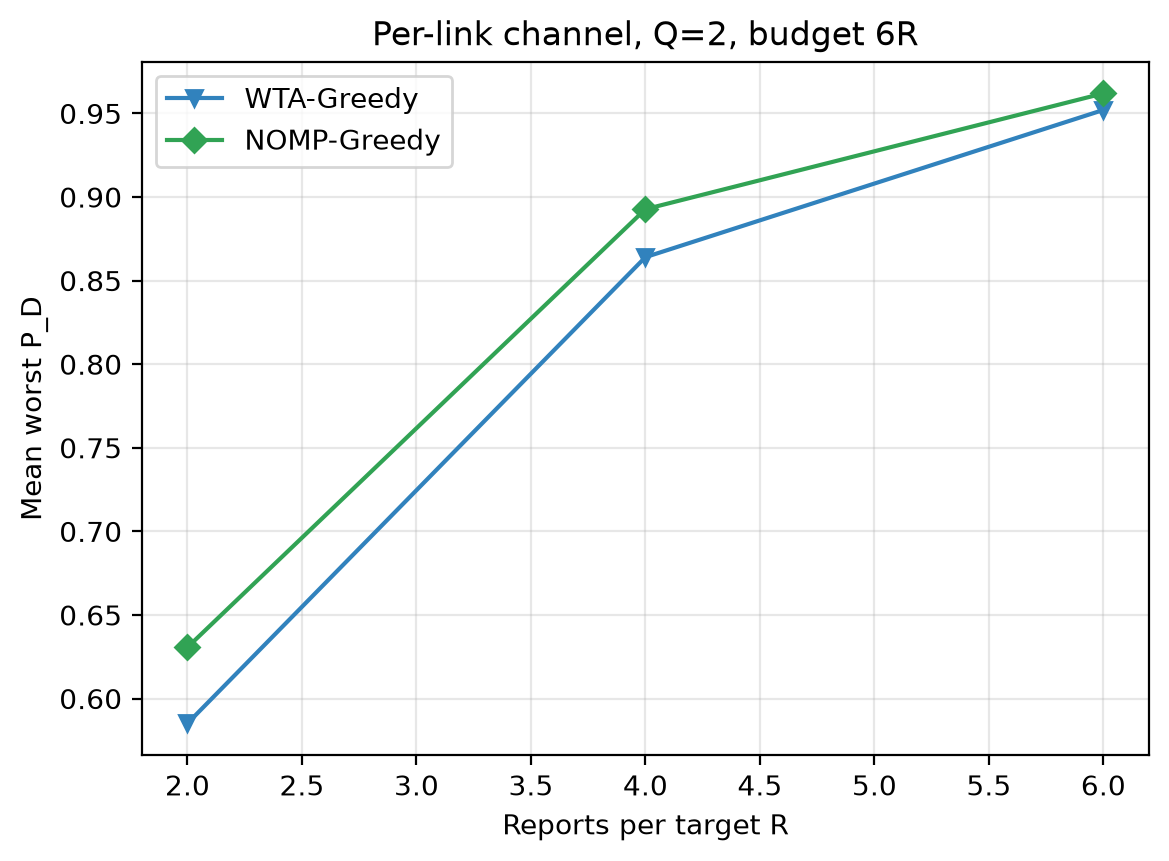
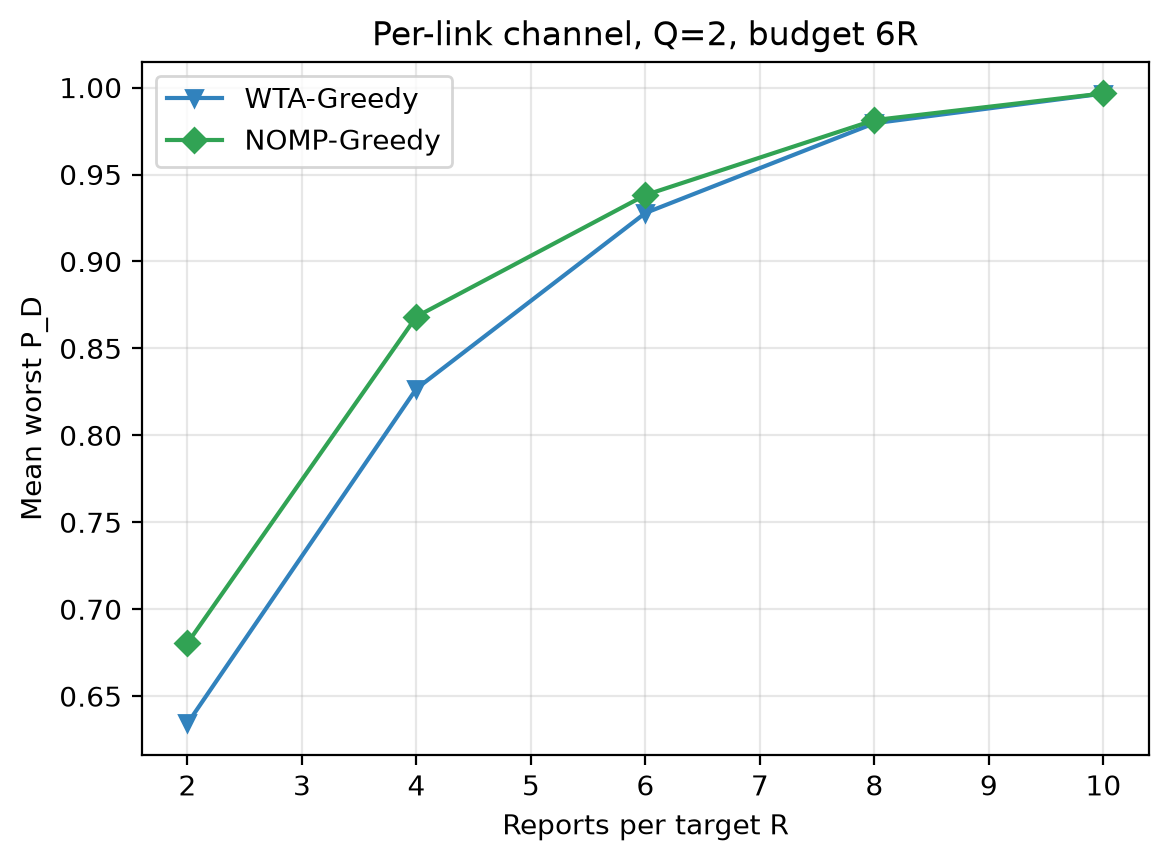
Add proxy-ranked candidate evaluation for large report counts

diff --git a/uav_otfs_isac/nomp_refinement.py b/uav_otfs_isac/nomp_refinement.py
@@ -30,6 +30,34 @@ def qos_scores(values, floors, weights=None):
     return weights * (values - floors) / np.maximum(floors, 1e-12)
 
 
+def deflection_proxy(
+    scenario,
+    powers,
+    bits,
+    flip_probability: float = 0.0,
+    success_probability: float = 1.0,
+):
+    """Cheap per-target deflection proxy for ranking refinement candidates."""
+    values = []
+    for q, target in enumerate(scenario):
+        _, deltas, flips, successes = _parse_target(
+            target, flip_probability, success_probability
+        )
+        total = 0.0
+        for r in range(deltas.size):
+            if bits[q][r] > 0:
+                total += float(powers[q][r]) * float(
+                    power_gain_coefficient(
+                        float(deltas[r]),
+                        int(bits[q][r]),
+                        float(flips[r]),
+                        float(successes[r]),
+                    )
+                )
+        values.append(total)
+    return values
+
+
 def leximin_improves(
     old_values,
     new_values,
@@ -85,6 +113,9 @@ def initial_min_cover(
     flip_probability: float = 0.0,
     success_probability: float = 1.0,
     grid: int = 16,
+    max_exact_reports: int = 8,
+    samples: int = 2048,
+    rng_seed: int = 0,
 ):
     """Activate one best report per target when the budget allows it."""
     reports = _report_count(scenario[0])
@@ -103,6 +134,9 @@ def initial_min_cover(
             grid,
             flip_probability,
             success_probability,
+            max_exact_reports,
+            samples,
+            rng_seed,
         )
         best_value = baseline
         best_winner = None
@@ -118,6 +152,9 @@ def initial_min_cover(
                 grid,
                 flip_probability,
                 success_probability,
+                max_exact_reports,
+                samples,
+                rng_seed,
             )
             if candidate > best_value:
                 best_value = candidate
@@ -137,6 +174,9 @@ def target_scores(
     grid: int = 16,
     flip_probability: float = 0.0,
     success_probability: float = 1.0,
+    max_exact_reports: int = 8,
+    samples: int = 2048,
+    rng_seed: int = 0,
 ):
     """Per-target P_D under the current allocation."""
     return [
@@ -147,6 +187,9 @@ def target_scores(
             grid,
             flip_probability,
             success_probability,
+            max_exact_reports,
+            samples,
+            rng_seed,
         ))
         for q, target in enumerate(scenario)
     ]
@@ -159,6 +202,9 @@ def _target_pd(
     grid,
     flip_probability,
     success_probability,
+    max_exact_reports=8,
+    samples=2048,
+    rng_seed=0,
 ):
     owner_delta, deltas, flips, successes = _parse_target(
         target, flip_probability, success_probability
@@ -173,6 +219,9 @@ def _target_pd(
         flips,
         successes,
         grid,
+        max_exact_reports=max_exact_reports,
+        samples=samples,
+        rng=np.random.default_rng(rng_seed),
     )
 
 
@@ -187,6 +236,9 @@ def _winner_index(
     flip_probability: float = 0.0,
     success_probability: float = 1.0,
     grid: int = 16,
+    max_exact_reports: int = 8,
+    samples: int = 2048,
+    rng_seed: int = 0,
 ):
     active = _active_reports(bits)
     if not active:
@@ -202,6 +254,9 @@ def _winner_index(
             grid,
             flip_probability,
             success_probability,
+            max_exact_reports,
+            samples,
+            rng_seed,
         )
         best = None
         for r in active:
@@ -215,6 +270,9 @@ def _winner_index(
                 grid,
                 flip_probability,
                 success_probability,
+                max_exact_reports,
+                samples,
+                rng_seed,
             ) - base
             if best is None or value > best[0]:
                 best = (float(value), r)
@@ -259,6 +317,9 @@ def _iter_candidates(
     flip_probability: float = 0.0,
     success_probability: float = 1.0,
     grid: int = 16,
+    max_exact_reports: int = 8,
+    samples: int = 2048,
+    rng_seed: int = 0,
 ):
     """Yield feasible single-exchange power/bit/atom moves."""
     q_count = len(scenario)
@@ -273,6 +334,9 @@ def _iter_candidates(
             flip_probability,
             success_probability,
             grid,
+            max_exact_reports,
+            samples,
+            rng_seed,
         )
         for s in range(reports):
             for d in range(reports):
@@ -449,6 +513,10 @@ def maxmin_refine(
     success_probability: float = 1.0,
     floors=None,
     weights=None,
+    max_exact_reports: int = 8,
+    samples: int = 2048,
+    rng_seed: int = 0,
+    candidate_budget: int = 32,
 ):
     """NOMP-style discrete refinement with a hard iteration cap."""
     rounds_used = 0
@@ -460,6 +528,9 @@ def maxmin_refine(
             grid,
             flip_probability,
             success_probability,
+            max_exact_reports,
+            samples,
+            rng_seed,
         )
         old_values = (
             np.sort(qos_scores(old_raw, floors, weights))
@@ -467,7 +538,7 @@ def maxmin_refine(
             else np.sort(old_raw)
         )
         best = None
-        for candidate in _iter_candidates(
+        candidates = list(_iter_candidates(
             scenario,
             powers,
             bits,
@@ -476,7 +547,24 @@ def maxmin_refine(
             flip_probability=flip_probability,
             success_probability=success_probability,
             grid=grid,
-        ):
+            max_exact_reports=max_exact_reports,
+            samples=samples,
+            rng_seed=rng_seed,
+        ))
+        if not candidates:
+            break
+
+        def proxy_key(candidate):
+            return tuple(np.sort(deflection_proxy(
+                scenario,
+                candidate[0],
+                candidate[1],
+                flip_probability,
+                success_probability,
+            )))
+
+        candidates.sort(key=proxy_key, reverse=True)
+        for candidate in candidates[:candidate_budget]:
             new_raw = target_scores(
                 scenario,
                 candidate[0],
@@ -484,6 +572,9 @@ def maxmin_refine(
                 grid,
                 flip_probability,
                 success_probability,
+                max_exact_reports,
+                samples,
+                rng_seed,
             )
             new_values = (
                 np.sort(qos_scores(new_raw, floors, weights))
@@ -512,6 +603,9 @@ def wta_greedy_joint_multi(
     success_probability: float = 1.0,
     floors=None,
     weights=None,
+    max_exact_reports: int = 8,
+    samples: int = 2048,
+    rng_seed: int = 0,
 ):
     """Online WTA greedy allocation with optional per-target minimum cover."""
     if max_power is None:
@@ -525,6 +619,9 @@ def wta_greedy_joint_multi(
             flip_probability=flip_probability,
             success_probability=success_probability,
             grid=grid,
+            max_exact_reports=max_exact_reports,
+            samples=samples,
+            rng_seed=rng_seed,
         )
     else:
         powers = [np.zeros(reports, dtype=int) for _ in scenario]
@@ -540,6 +637,9 @@ def wta_greedy_joint_multi(
             grid,
             flip_probability,
             success_probability,
+            max_exact_reports,
+            samples,
+            rng_seed,
         )
         if floors is not None:
             return float(np.mean(qos_scores(raw, floors, weights)))
@@ -581,6 +681,9 @@ def wta_greedy_joint_multi(
                     flip_probability,
                     success_probability,
                     grid,
+                    max_exact_reports,
+                    samples,
+                    rng_seed,
                 )
                 if powers[q][winner] < max_power and used + 1 <= budget:
                     old_p = powers[q].copy()
@@ -616,6 +719,9 @@ def wta_greedy_joint_multi(
             grid,
             flip_probability,
             success_probability,
+            max_exact_reports,
+            samples,
+            rng_seed,
         ))),
         "used": int(sum(
             int(powers[q].sum()) + int(bits[q].sum())
@@ -637,6 +743,10 @@ def nomp_wta_greedy_joint_multi(
     success_probability: float = 1.0,
     floors=None,
     weights=None,
+    max_exact_reports: int = 8,
+    samples: int = 2048,
+    rng_seed: int = 0,
+    candidate_budget: int = 32,
 ):
     """WTA greedy with minimum cover, followed by NOMP-style refinement."""
     if max_power is None:
@@ -652,6 +762,9 @@ def nomp_wta_greedy_joint_multi(
         success_probability=success_probability,
         floors=floors,
         weights=weights,
+        max_exact_reports=max_exact_reports,
+        samples=samples,
+        rng_seed=rng_seed,
     )
     powers, bits, refine_rounds = maxmin_refine(
         scenario,
@@ -665,6 +778,10 @@ def nomp_wta_greedy_joint_multi(
         success_probability=success_probability,
         floors=floors,
         weights=weights,
+        max_exact_reports=max_exact_reports,
+        samples=samples,
+        rng_seed=rng_seed,
+        candidate_budget=candidate_budget,
     )
     raw = target_scores(
         scenario,
@@ -673,6 +790,9 @@ def nomp_wta_greedy_joint_multi(
         grid,
         flip_probability,
         success_probability,
+        max_exact_reports,
+        samples,
+        rng_seed,
     )
     return {
         "powers": powers,

diff --git a/scripts/run_nomp_report_scaling_gate.py b/scripts/run_nomp_report_scaling_gate.py
@@ -36,9 +36,11 @@ def main() -> None:
     parser = argparse.ArgumentParser()
     parser.add_argument("--output", default="results/nomp_report_scaling_gate.json")
     parser.add_argument("--figure", default="paper_figures/nomp_report_scaling.png")
-    parser.add_argument("--reports", type=int, nargs="+", default=[2, 4, 6])
+    parser.add_argument("--reports", type=int, nargs="+", default=[2, 4, 6, 8, 10])
     parser.add_argument("--seeds", type=int, default=10)
     parser.add_argument("--budget-multiplier", type=int, default=3)
+    parser.add_argument("--samples", type=int, default=512)
+    parser.add_argument("--candidate-budget", type=int, default=32)
     args = parser.parse_args()
 
     rows = []
@@ -56,7 +58,14 @@ def main() -> None:
                 scenario, budget, min_cover=False
             )["worst_pd"]))
             start = time.perf_counter()
-            result = nomp_wta_greedy_joint_multi(scenario, budget)
+            result = nomp_wta_greedy_joint_multi(
+                scenario,
+                budget,
+                max_exact_reports=8,
+                samples=args.samples,
+                rng_seed=1,
+                candidate_budget=args.candidate_budget,
+            )
             nomp_seconds.append(time.perf_counter() - start)
             nomp_worsts.append(float(result["worst_pd"]))
             nomp_rounds.append(int(result["refine_rounds"]))

diff --git a/RUN_MATRIX.md b/RUN_MATRIX.md
@@ -40,7 +40,7 @@ error.
 | `joint-power-scaling` | Worst P_D versus Q=2/4/6/8 with per-target budget 4Q | `& "E:\anaconda\conda\python.exe" scripts\run_joint_power_scaling.py --targets 2 4 6 8 --train-seeds 20 --test-seeds 20 --episodes 200 --output results\joint_power_scaling.json --figure paper_figures\joint_power_scaling.png` | `results/joint_power_scaling.json`, `paper_figures/joint_power_scaling.png` |
 | `joint-power-comm-mismatch` | Per-link sensing/communication mismatch with robust expected-P_D oracle | `& "E:\anaconda\conda\python.exe" scripts\run_joint_power_comm_mismatch_gate.py --seeds 20 --budgets 8 10 12 --output results\joint_power_comm_mismatch_gate.json` | `results/joint_power_comm_mismatch_gate.json` |
 | `joint-power-summary` | Consolidated tables and overall comparison figure | `& "E:\anaconda\conda\python.exe" scripts\summarize_joint_power_results.py` | `paper_figures/joint_power_overall_comparison.png`, console tables |
-| `nomp-report-scaling` | NOMP vs WTA versus report count under per-link channels | `& "E:\anaconda\conda\python.exe" scripts\run_nomp_report_scaling_gate.py --reports 2 4 6 --seeds 10 --output results\nomp_report_scaling_gate.json --figure paper_figures\nomp_report_scaling.png` | `results/nomp_report_scaling_gate.json`, `paper_figures/nomp_report_scaling.png` |
+| `nomp-report-scaling` | NOMP vs WTA versus report count under per-link channels | `& "E:\anaconda\conda\python.exe" scripts\run_nomp_report_scaling_gate.py --reports 2 4 6 8 10 --seeds 5 --samples 512 --candidate-budget 32 --output results\nomp_report_scaling_gate.json --figure paper_figures\nomp_report_scaling.png` | `results/nomp_report_scaling_gate.json`, `paper_figures/nomp_report_scaling.png` |
 | `qos-weighted-maxmin` | QoS floors/weights multi-target max-min | `& "E:\anaconda\conda\python.exe" scripts\run_qos_weighted_maxmin_gate.py --seeds 10 --budgets 8 10 12 --output results\qos_weighted_maxmin_gate.json` | `results/qos_weighted_maxmin_gate.json` |
 | `qr-scenario-comparison` | Q x R x scenario comparison grid | `& "E:\anaconda\conda\python.exe" scripts\run_qr_scenario_comparison.py --modes homogeneous heterogeneous comm_mismatch --targets 2 4 6 --reports 2 3 4 --seeds 5 --output results\qr_scenario_comparison.json --figure paper_figures\qr_scenario_comparison.png` | `results/qr_scenario_comparison.json`, `paper_figures/qr_scenario_comparison.png` |
 | `error-feedback` | WTA allocation under coefficient error with feedback | `& "E:\anaconda\conda\python.exe" scripts\run_error_feedback_gate.py --seeds 20 --rounds 1 3 10 30 --noise 0.8 --output results\error_feedback_gate.json` | `results/error_feedback_gate.json` |

diff --git a/RUN_GUIDE.md b/RUN_GUIDE.md
@@ -125,7 +125,7 @@ python -m pytest -q tests/test_nomp_refinement.py
 python scripts/run_joint_power_scaling.py --targets 2 4 6 8 --train-seeds 20 --test-seeds 20 --episodes 200 --output results/joint_power_scaling.json --figure paper_figures/joint_power_scaling.png
 python scripts/run_joint_power_comm_mismatch_gate.py --seeds 20 --budgets 8 10 12 --output results/joint_power_comm_mismatch_gate.json
 python scripts/summarize_joint_power_results.py
-python scripts/run_nomp_report_scaling_gate.py --reports 2 4 6 --seeds 10 --output results/nomp_report_scaling_gate.json --figure paper_figures/nomp_report_scaling.png
+python scripts/run_nomp_report_scaling_gate.py --reports 2 4 6 8 10 --seeds 5 --samples 512 --candidate-budget 32 --output results/nomp_report_scaling_gate.json --figure paper_figures/nomp_report_scaling.png
 python scripts/run_qos_weighted_maxmin_gate.py --seeds 10 --budgets 8 10 12 --output results/qos_weighted_maxmin_gate.json
 python scripts/run_qr_scenario_comparison.py --modes homogeneous heterogeneous comm_mismatch --targets 2 4 6 --reports 2 3 4 --seeds 5 --output results/qr_scenario_comparison.json --figure paper_figures/qr_scenario_comparison.png
 python scripts/run_mappo_greedy_scaling.py --targets 2 4 6 8 --train-seeds 20 --test-seeds 20 --episodes 800 --budget-multiplier 8

diff --git a/README.md b/README.md
@@ -345,9 +345,10 @@ low-reliability links are not forced in.
 
 `scripts/run_nomp_report_scaling_gate.py` sweeps the report count with
 per-link channels and budget `6R`: NOMP improves WTA-Greedy at every R
-(0.631 vs 0.585 at R=2, 0.893 vs 0.864 at R=4, 0.962 vs 0.952 at R=6).
-Expected P_D is marginalized over erasures exactly up to R=8 and switches to
-Monte Carlo above it, so the online allocator remains usable as R grows.
+(0.680/0.868/0.938/0.981/0.997 versus 0.634/0.827/0.928/0.979/0.997 at
+R=2/4/6/8/10).  Expected P_D is marginalized over erasures exactly up to R=8
+and switches to Monte Carlo above it; proxy-ranked candidate evaluation keeps
+the mean per-scenario runtime between 0.4s and 42s across the sweep.
 
 ![NOMP report scaling](paper_figures/nomp_report_scaling.png)
 

diff --git a/FORMAL_PROOFS.md b/FORMAL_PROOFS.md
@@ -1914,7 +1914,9 @@ applies the same expected-P_D refinement; in the gate it keeps the
 deterministic NOMP worst values with certificate stop rates of 0.60/0.55/0.55.
 For report counts above R=8 the erasure expectation is estimated by
 independent Monte Carlo draws instead of enumerating all received subsets;
-the estimator is unbiased and the gate records mean runtime per scenario.
+the estimator is unbiased.  The refinement additionally ranks candidates by a
+cheap deflection proxy and verifies only the top-`candidate_budget` moves
+exactly, so the per-scenario runtime stays 0.4-42s in the R=2..10 sweep.
 
 ### Lemma 4.82 (QoS-scaled leximin refinement)
 
